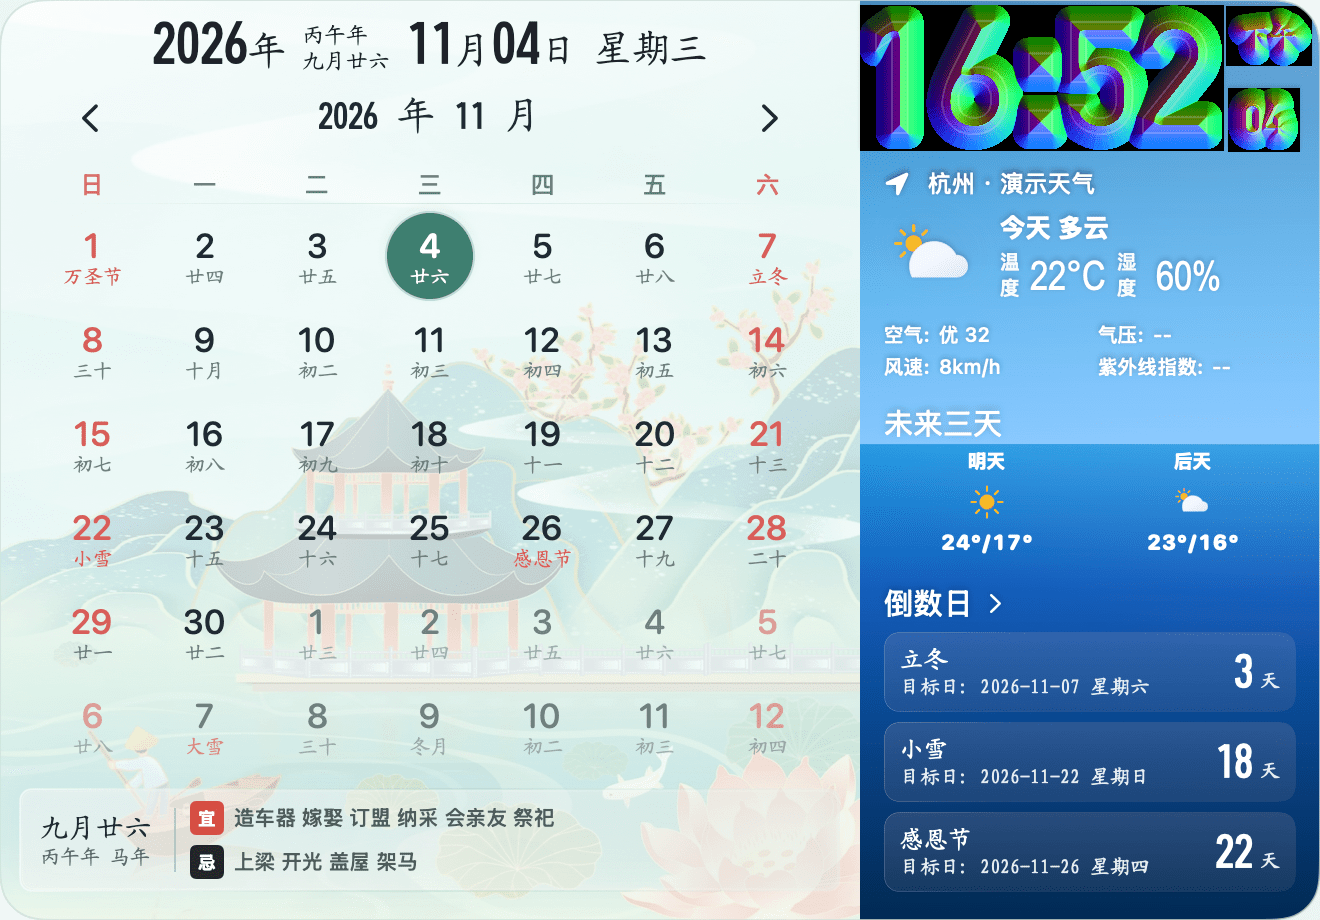
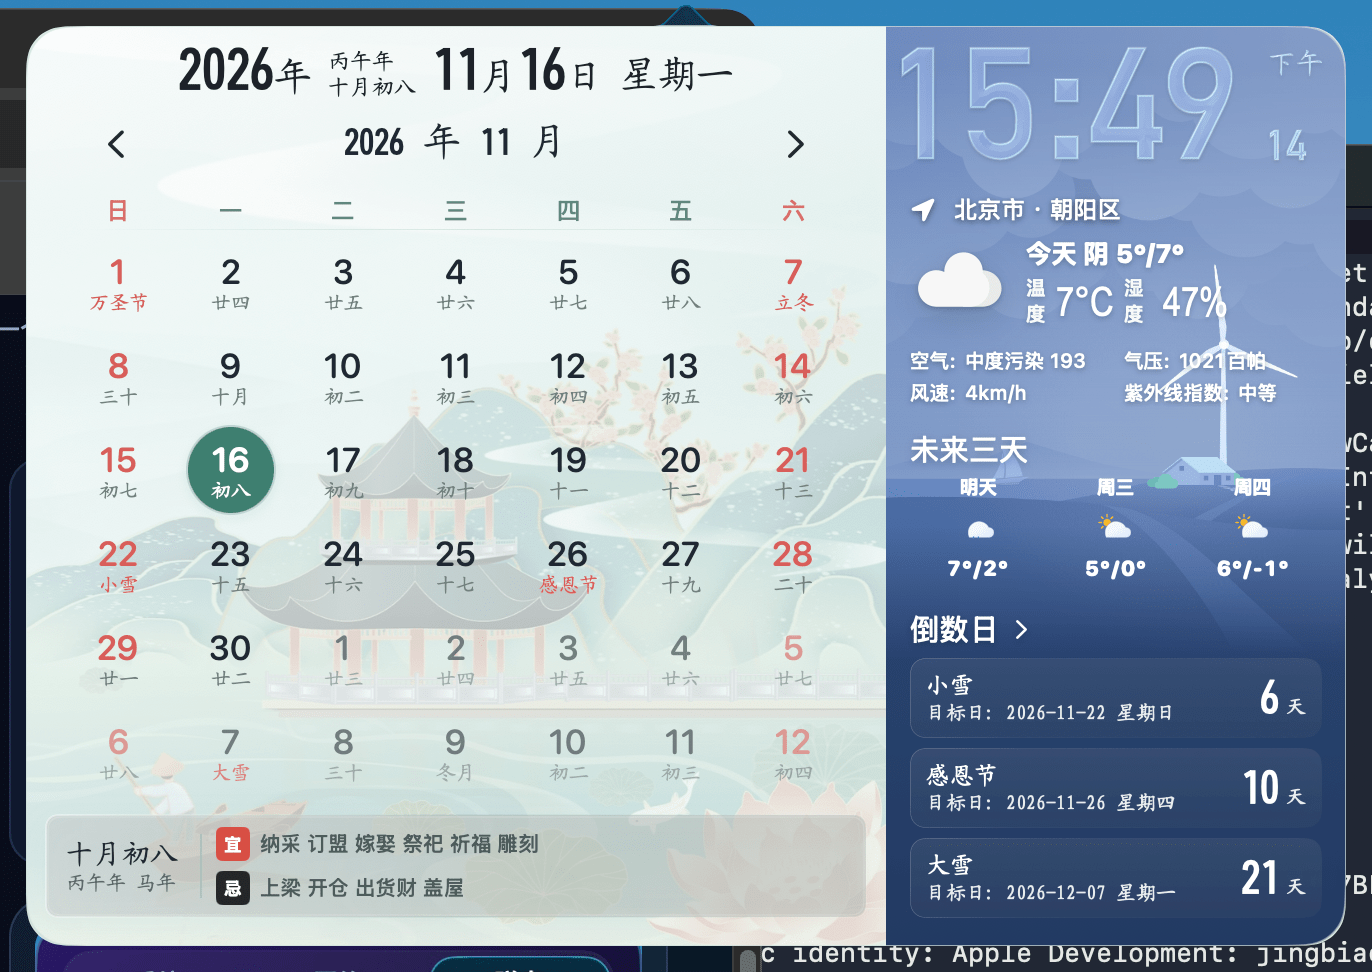
补充连接手机、系统监控、窗口晾衣架和 Agent 额度介绍
网站增加新功能区块与图集，并写入功能说明。系统监控网络截图不展示局域网地址。同时更新山水蓝日历图片。

diff --git a/index.html b/index.html
@@ -4,7 +4,7 @@
     <meta charset="utf-8" />
     <meta name="viewport" content="width=device-width, initial-scale=1" />
     <meta name="theme-color" content="#0b1020" />
-    <meta name="description" content="小咕 Oriel：日历、生活提醒、多平台热搜、可自定义的 Finder 右键工作流，以及陪你工作、联动 AI 任务状态的桌面机器人。" />
+    <meta name="description" content="小咕 Oriel：日历、生活提醒、多平台热搜、Finder 右键工作流、桌面机器人，以及连接手机、系统监控、窗口晾衣架和 Agent 额度。" />
     <title>小咕 Oriel · 把一天放在桌角</title>
     <link rel="stylesheet" href="styles.css" />
   </head>
@@ -23,6 +23,7 @@
         <a href="#finder">强大右键</a>
         <a href="#pdf">PDF</a>
         <a href="#robot">桌面机器人</a>
+        <a href="#new">新功能</a>
         <a href="#gallery">界面</a>
         <a class="nav-pill" href="https://github.com/LiJingBiao/xiaogu" target="_blank" rel="noreferrer">GitHub ↗</a>
       </nav>
@@ -215,11 +216,52 @@
         </div>
       </section>
 
+      <section class="new-section container" id="new" aria-labelledby="new-title">
+        <div class="section-heading reveal">
+          <div><span class="section-kicker">NEW / 新加入的能力</span><h2 id="new-title">菜单栏上，<br /><em>又多了几件顺手的事。</em></h2></div>
+          <p>手机连过来，窗口收成一排，占用抬眼可见。Agent 的额度也不用再一个个打开去翻。</p>
+        </div>
+        <div class="new-capabilities">
+          <article class="capability-card reveal"><span class="capability-index">01 / 连接手机</span><h3>电脑和手机，放在同一块面板里</h3><p>局域网连上之后，能看到电量、蓝牙和通知状态。文字、文件和图片可以从这里送过去，也可以把文件拖进面板。</p></article>
+          <article class="capability-card reveal"><span class="capability-index">02 / 系统监控</span><h3>CPU、内存、磁盘和网速，停在菜单栏</h3><p>点开以后分成系统、网络和磁盘。网络页列出正在传输的应用，也可以做一次短测速。</p></article>
+          <article class="capability-card reveal"><span class="capability-index">03 / 额度与窗口</span><h3>额度放在一处，窗口晾在顶边</h3><p>授权后查看 Codex、Claude Code、Grok 和 Cursor 的额度与重置时间。窗口晾衣架把打开的窗口收成一排，可以翻页和截图。</p></article>
+        </div>
+        <div class="new-shots">
+          <figure class="story-figure reveal">
+            <a class="screenshot-link" href="截图/压缩后图片/系统监控-系统.jpg" data-screenshot="截图/压缩后图片/系统监控-系统.jpg" aria-label="放大查看系统监控的系统页"><img src="截图/压缩后图片/系统监控-系统.jpg" alt="系统监控的系统页，显示 CPU、GPU、内存压力和已运行时间" width="620" height="554" loading="lazy" /><span class="image-hint">点击放大 ↗</span></a>
+            <figcaption>系统 · CPU、内存和已运行时间<span>实际界面 · 用户提供截图</span></figcaption>
+          </figure>
+          <figure class="story-figure reveal">
+            <a class="screenshot-link" href="截图/压缩后图片/系统监控-网络.jpg" data-screenshot="截图/压缩后图片/系统监控-网络.jpg" aria-label="放大查看系统监控的网络页"><img src="截图/压缩后图片/系统监控-网络.jpg" alt="系统监控的网络页，显示上下行曲线、正在使用网络的应用和测速入口" width="620" height="1106" loading="lazy" /><span class="image-hint">点击放大 ↗</span></a>
+            <figcaption>网络 · 上下行和正在传输的应用<span>实际界面 · 局域网地址未展示</span></figcaption>
+          </figure>
+          <figure class="story-figure reveal">
+            <a class="screenshot-link" href="截图/压缩后图片/系统监控-磁盘.jpg" data-screenshot="截图/压缩后图片/系统监控-磁盘.jpg" aria-label="放大查看系统监控的磁盘页"><img src="截图/压缩后图片/系统监控-磁盘.jpg" alt="系统监控的磁盘页，显示所选卷的可用空间和整机读写曲线" width="620" height="680" loading="lazy" /><span class="image-hint">点击放大 ↗</span></a>
+            <figcaption>磁盘 · 可用空间和整机读写<span>实际界面 · 用户提供截图</span></figcaption>
+          </figure>
+        </div>
+        <div class="new-pair">
+          <figure class="story-figure reveal">
+            <a class="screenshot-link" href="截图/压缩后图片/连接手机.jpg" data-screenshot="截图/压缩后图片/连接手机.jpg" aria-label="放大查看连接手机面板"><img src="截图/压缩后图片/连接手机.jpg" alt="连接手机面板，显示局域网已连接、电量、通知状态，以及文字、文件和图片发送入口" width="772" height="892" loading="lazy" /><span class="image-hint">点击放大 ↗</span></a>
+            <figcaption>连接手机 · 状态和发送放在一起<span>实际界面 · 用户提供截图</span></figcaption>
+          </figure>
+          <figure class="story-figure reveal">
+            <a class="screenshot-link" href="截图/压缩后图片/Agent额度.jpg" data-screenshot="截图/压缩后图片/Agent额度.jpg" aria-label="放大查看 Agent 额度面板"><img src="截图/压缩后图片/Agent额度.jpg" alt="Agent 额度面板，列出 Codex、Claude Code、Grok 和 Cursor" width="656" height="894" loading="lazy" /><span class="image-hint">点击放大 ↗</span></a>
+            <figcaption>Agent 额度 · 授权后看剩余和重置时间<span>实际界面 · 数字为截图当时的用量</span></figcaption>
+          </figure>
+        </div>
+        <figure class="story-figure new-wide reveal">
+          <a class="screenshot-link" href="截图/压缩后图片/窗口晾衣架.jpg" data-screenshot="截图/压缩后图片/窗口晾衣架.jpg" aria-label="放大查看窗口晾衣架"><img src="截图/压缩后图片/窗口晾衣架.jpg" alt="窗口晾衣架挂在屏幕顶边，展示当前打开的窗口缩略图" width="3954" height="926" loading="lazy" /><span class="image-hint">点击放大 ↗</span></a>
+          <figcaption>窗口晾衣架 · 打开的窗口收成一排<span>实际桌面 · 这一屏是 14 个窗口里的第 1 页</span></figcaption>
+        </figure>
+      </section>
+
       <section class="showcase" id="gallery">
         <div class="container">
-          <div class="section-heading section-heading--gallery reveal"><div><span class="section-kicker">真实界面 / SCREENSHOTS</span><h2>打开小咕，<br /><em>就是这些样子。</em></h2></div><p>73 张实际界面与组件采集图，加上 7 张用户补充图片，包含微博、百度和知乎热搜，以及 Markdown 导出 PDF。界面采集使用演示数据，组件为生产代码渲染；点击可放大查看。</p></div>
+          <div class="section-heading section-heading--gallery reveal"><div><span class="section-kicker">真实界面 / SCREENSHOTS</span><h2>打开小咕，<br /><em>就是这些样子。</em></h2></div><p>73 张实际界面与组件采集图，加上 13 张用户补充图片，包含微博、百度和知乎热搜、Markdown 导出 PDF，以及连接手机、系统监控、Agent 额度和窗口晾衣架。界面采集使用演示数据，组件为生产代码渲染；用户补充的界面为截图当时的状态。点击可放大查看。</p></div>
           <div class="gallery-tabs reveal" role="tablist" aria-label="截图分类">
             <button class="gallery-tab is-active" role="tab" aria-selected="true" type="button" data-filter="all">全部</button>
+            <button class="gallery-tab" role="tab" aria-selected="false" type="button" data-filter="new">新功能</button>
             <button class="gallery-tab" role="tab" aria-selected="false" type="button" data-filter="finder">Finder 右键</button>
             <button class="gallery-tab" role="tab" aria-selected="false" type="button" data-filter="calendar">日历与设置</button>
             <button class="gallery-tab" role="tab" aria-selected="false" type="button" data-filter="hotsearch">热搜资讯</button>

diff --git a/截图清单.js b/截图清单.js
@@ -646,5 +646,59 @@ window.orielScreenshots = [
     "image": "截图/压缩后图片/RAR解压.png",
     "width": 1120,
     "height": 1184
+  },
+  {
+    "title": "系统监控 · 系统",
+    "category": "new",
+    "image": "截图/压缩后图片/系统监控-系统.jpg",
+    "sourceLabel": "用户提供 · 实际界面",
+    "description": "系统监控的系统页，显示 CPU、GPU、内存压力、压缩内存、缓存、交换空间和已运行时间。数字是截图当时的状态。",
+    "width": 620,
+    "height": 554
+  },
+  {
+    "title": "系统监控 · 网络",
+    "category": "new",
+    "image": "截图/压缩后图片/系统监控-网络.jpg",
+    "sourceLabel": "用户提供 · 实际界面",
+    "description": "系统监控的网络页，显示上下行曲线、本次会话流量和正在使用网络的应用。测速会连接 Cloudflare。局域网地址未展示，数字是截图当时的状态。",
+    "width": 620,
+    "height": 1106
+  },
+  {
+    "title": "系统监控 · 磁盘",
+    "category": "new",
+    "image": "截图/压缩后图片/系统监控-磁盘.jpg",
+    "sourceLabel": "用户提供 · 实际界面",
+    "description": "系统监控的磁盘页，可切换卷，查看可用空间、可清除空间和整机读写。数字是截图当时的状态。",
+    "width": 620,
+    "height": 680
+  },
+  {
+    "title": "连接手机",
+    "category": "new",
+    "image": "截图/压缩后图片/连接手机.jpg",
+    "sourceLabel": "用户提供 · 实际界面",
+    "description": "已连接手机的面板。可查看局域网、蓝牙、电量和通知状态，并发送文字、文件或图片，也可以把文件拖进面板。",
+    "width": 772,
+    "height": 892
+  },
+  {
+    "title": "Agent 额度",
+    "category": "new",
+    "image": "截图/压缩后图片/Agent额度.jpg",
+    "sourceLabel": "用户提供 · 实际界面",
+    "description": "Agent 额度面板，列出 Codex、Claude Code、Grok 和 Cursor。授权后显示额度和重置时间。图中的百分比是截图当时的用量。",
+    "width": 656,
+    "height": 894
+  },
+  {
+    "title": "窗口晾衣架",
+    "category": "new",
+    "image": "截图/压缩后图片/窗口晾衣架.jpg",
+    "sourceLabel": "用户提供 · 实际桌面",
+    "description": "窗口晾衣架挂在屏幕顶边，把打开的窗口收成一排。这一屏是 14 个窗口里的第 1 页，可以刷新、截图或关闭。",
+    "width": 3954,
+    "height": 926
   }
 ];

diff --git a/styles.css b/styles.css
@@ -71,6 +71,14 @@ button { color: inherit; font: inherit; }
 .hotsearch-screenshots .story-figure { padding: 12px; }
 @media (max-width: 900px) { .hotsearch-capabilities { grid-template-columns: 1fr; } }
 @media (max-width: 640px) { .hotsearch-section { padding-bottom: 80px; } .hotsearch-screenshots { grid-template-columns: 1fr; gap: 24px; } .hotsearch-screenshots .story-figure { width: min(100%, 400px); margin-inline: auto; } .hotsearch-section .section-heading > p { font-size: 16px; } }
+.new-section { padding-bottom: 120px; scroll-margin-top: 30px; }
+.new-section .section-heading > p { max-width: 380px; font-size: 14px; }
+.new-capabilities, .new-shots { display: grid; grid-template-columns: repeat(3, minmax(0, 1fr)); gap: 16px; }
+.new-shots, .new-pair, .new-wide { margin-top: 16px; }
+.new-pair { display: grid; grid-template-columns: repeat(2, minmax(0, 1fr)); gap: 16px; }
+.new-shots .story-figure, .new-pair .story-figure, .new-wide { padding: 12px; }
+@media (max-width: 900px) { .new-capabilities, .new-shots, .new-pair { grid-template-columns: 1fr; } }
+@media (max-width: 640px) { .new-section { padding-bottom: 80px; } .new-section .section-heading > p { font-size: 16px; } .new-shots .story-figure, .new-pair .story-figure { width: min(100%, 420px); margin-inline: auto; } }
 .spotlight .section-heading > p, .robot-section .section-heading > p { max-width: 350px; font-size: 14px; }
 .finder-story { display: grid; grid-template-columns: minmax(230px, .72fr) minmax(0, 1.65fr); align-items: start; gap: 40px; }
 .story-figure { margin: 0; padding: 16px; border: 1px solid var(--line); border-radius: 20px; background: linear-gradient(145deg, rgba(112,214,255,.07), rgba(167,139,250,.05)); }

diff --git a/新增功能清单.md b/新增功能清单.md
@@ -1,0 +1,91 @@
+# 新增功能说明
+
+小咕新加入的能力，以及原有功能里新能做的事。
+
+## 新功能
+
+### 连接手机
+
+Mac 菜单栏有设备入口，可以同时管理多台手机。每台手机单独配对、单独连接。
+
+安卓可以扫码、走局域网或蓝牙，也可用六位码配对。能同步剪贴板，传送文件和文件夹，查看电量，转发通知和短信，并在重新连上后补上离线期间的通知。一台手机可以记下多台电脑，同一时间只连接其中一台。界面有亮色暖纸和暗色夜色，默认跟随系统。
+
+iPhone 通过蓝牙连接，界面与安卓一致，也可以记下多台 Mac。不提供通知共享、短信和六位码。
+
+系统分享里，安卓有「小咕」和「小咕剪贴板」，iPhone 有分享扩展，文字和文件可以发到当前电脑。手机收发文件不设大小上限。
+
+传输有进度。收件记录在重启后还在。Mac 收到图片或文字时，会弹出可以复制的预览；已经自动写入剪贴板的内容不再另开窗口。手机和电脑之间也可以用 LocalSend 传文件，普通接收仍然保留。
+
+剪贴板可以按发送方向单独开关。离开电脑时是否锁屏，按每台设备单独设置。局域网和蓝牙可以同时开着，面板上分别显示两条通道。
+
+### 系统监控
+
+菜单栏显示 CPU、内存、磁盘和网速，点击打开面板。
+
+面板有三页：系统、网络、磁盘。系统页看占用和内存。磁盘页可以切换卷，也能推出可移动磁盘。网络页列出正在传输的应用，并可以做一次短测速。
+
+只在面板看得见的时候采样。可以换主题，菜单栏宽度是固定的。
+
+### Agent 额度
+
+菜单栏有单独的额度图标，默认不显示。隐藏之后，从小咕的右键菜单再打开。
+
+可以查看 Codex、Claude Code、Grok 和 Cursor 的额度与重置时间。左键打开一块浮窗，点外面或按 Esc 关闭。每个工具需要授权自己的真实用户目录。
+
+还没授权、没登录或读不到额度时，会写出对应的原因。用量是 0% 时，就显示 0%。
+
+### 网速测试
+
+快捷启动里可以测延迟、下载和上传。节点来自 Speedtest.net 和测速网附近的服务器，测完的结果不回传给对方。系统监控的网络页里也可以做一次短测速。
+
+### 截图晾衣架
+
+指针在屏幕顶边停一下，晾衣架才展开，用来收纳截下来的图。图片可以拖进文件夹或其他应用，清空放在右键菜单里。剪贴板里的图片可以固定到屏幕，也可以放到晾衣架上。它和窗口晾衣架分开开关，顶边要停多久才展开可以自己调。
+
+### 窗口晾衣架
+
+把当前打开的窗口收成一排，点一张就能操作对应窗口。右侧拉绳往下是下一页，按住 Option 是上一页，双击打开全部窗口的总览。
+
+### 截图取色
+
+截图时可以取颜色。指针旁边有一块放大镜，方便对准像素。
+
+### 生活提醒强提醒
+
+到点以后，用接近系统通知的样式弹出来，也可以收成一直留在桌面上的卡片。鼠标停上去会有反应。好几条叠在一起时，展开像一叠通知被拆开。
+
+### 终端状态
+
+在 Zsh 里装上接入之后，小咕能看到终端正在做什么。一条命令跑完，会用系统通知和胶囊提醒，胶囊大约停 8 秒。点一下提醒，可以回到原来的终端。最多同时看 12 个会话。正在交互的程序，以及已经接入的 AI 工具，不会为普通命令结束再发一次提醒。
+
+### 桌面机器人
+
+除了原来的样子，还可以换成球球、云宝或亮亮。几种外形用同一套状态，也会敲键盘。点下去要落在当前外形上，外形外面的空白可以点穿。可以缩小后停在菜单栏下面，位置会被记住，也不会挡住胶囊和强提醒。
+
+## 原有功能里新能做的事
+
+### 截图
+
+工具栏里显示哪些工具可以自己选。默认有固定到屏幕、文字识别、滚动截屏和文字。设置按类分开，可以指定默认保存位置。标注用过的颜色和线宽会被记住；画上去的标注可以再选中、拖动，并用控制点缩放。复制出去的是 PNG。
+
+菜单栏入口同时带有截屏和录屏。滚动截图跟丢时会提示，也可以退回上一段重新接上。多个屏幕一起截时，一块屏幕确定选区之后，其他屏幕不再继续框。
+
+### 剪贴板
+
+每一条左边都有缩略图。可以调系统预览，也可以导出成文件。内容如果是本机路径，可以直接在访达里打开。新内容用来胶囊提示。鼠标停在一条上面时，预览宽度跟着两边的空位变，高度跟着内容变。放进剪贴板的图片不再卡在 32 MiB。
+
+### 二维码
+
+可以生成，也可以从图片里识别。一张图里有多个二维码时，会一起标出来。系统画不出的条形码不再提供。
+
+### Finder 右键
+
+自定义动作可以只出现在文件上，只出现在文件夹上，或者两种都出现。这个选择会跟着导入和导出一起走。
+
+### 简历
+
+简历可以导出成 PDF。
+
+### 录屏
+
+菜单栏上的录屏图标，在展开、收起和鼠标停住时会动。

diff --git a/README.md b/README.md
@@ -15,10 +15,11 @@
 - **常用工具随手用**：快捷启动、剪贴板、格式化、图片、文本、截图与录屏等。
 - **桌面有点陪伴**：可互动、联动 AI 任务状态的机器人，还有昆虫、番茄钟和小游戏。
 - **换成喜欢的样子**：多种界面主题、桌面时钟与日历组件。
+- **菜单栏上的新工具**：连接手机，查看 CPU、内存、磁盘和网速，把窗口收成晾衣架，并查看 Codex、Claude Code、Grok 和 Cursor 的额度。
 
 ## 全部界面展示
 
-下面按功能展示全部 80 张截图。自动采集界面中的日期、天气、提醒和工具内容使用演示数据；用户提供的热搜截图仅代表采集时的榜单。机器人 32 种状态总览是一张状态图鉴。
+下面按功能展示全部 86 张截图。自动采集界面中的日期、天气、提醒和工具内容使用演示数据；用户提供的热搜截图仅代表采集时的榜单。机器人 32 种状态总览是一张状态图鉴。连接手机、系统监控、Agent 额度和窗口晾衣架为用户提供的实际界面，数字是截图当时的状态；系统监控网络页不展示局域网地址。
 
 ### 日历、天气与重要日子
 
@@ -135,6 +136,22 @@
 | RAR解压 |   |
 | --- | --- |
 | ![RAR解压](<截图/压缩后图片/RAR解压.png>) |   |
+
+### 连接手机、系统监控与窗口晾衣架
+
+菜单栏可以连上手机，查看 CPU、内存、磁盘和网速，把打开的窗口收在屏幕顶边，并在授权后查看 Codex、Claude Code、Grok 和 Cursor 的额度与重置时间。
+
+| 连接手机 | Agent 额度 |
+| --- | --- |
+| ![连接手机](<截图/压缩后图片/连接手机.jpg>) | ![Agent 额度](<截图/压缩后图片/Agent额度.jpg>) |
+
+| 系统监控 · 系统 | 系统监控 · 磁盘 |
+| --- | --- |
+| ![系统监控 · 系统](<截图/压缩后图片/系统监控-系统.jpg>) | ![系统监控 · 磁盘](<截图/压缩后图片/系统监控-磁盘.jpg>) |
+
+| 系统监控 · 网络 | 窗口晾衣架 |
+| --- | --- |
+| ![系统监控 · 网络](<截图/压缩后图片/系统监控-网络.jpg>) | ![窗口晾衣架](<截图/压缩后图片/窗口晾衣架.jpg>) |
 
 ### 截图与录屏
 

diff --git a/网站说明.md b/网站说明.md
@@ -11,10 +11,10 @@
 - `index.html`：页面内容与 GitHub 链接。
 - `styles.css`：样式及响应式布局。
 - `script.js`：分类切换、图片放大和导航交互。
-- `截图清单.js`：80 张展示图片的标题、分类、说明和尺寸。
-- `截图/压缩后图片/`：73 张压缩 PNG、3 张用户提供的热搜 PNG、4 张用户补充 JPEG 和 1 张 JPEG 图标，共 81 张图片。原始采集图片、测试附件和采集记录不进入此仓库。
+- `截图清单.js`：86 张展示图片的标题、分类、说明和尺寸。
+- `截图/压缩后图片/`：73 张压缩 PNG、3 张用户提供的热搜 PNG、10 张用户补充 JPEG 和 1 张 JPEG 图标，共 87 张图片。原始采集图片、测试附件和采集记录不进入此仓库。
 
-自动采集图片来自实际应用界面或生产组件渲染，日期、天气、提醒和工具内容使用演示数据；七张补充图片保留“用户提供”来源标签。新增微博、百度、知乎三张实际热搜截图，榜单仅代表截图采集时的内容，不作为实时资讯提供。机器人 32 种状态图片为状态图鉴。Markdown 导出 PDF 为用户提供的小咕原生窗口截图。
+自动采集图片来自实际应用界面或生产组件渲染，日期、天气、提醒和工具内容使用演示数据；用户补充图片保留“用户提供”来源标签。微博、百度、知乎三张实际热搜截图的榜单仅代表截图采集时的内容，不作为实时资讯提供。机器人 32 种状态图片为状态图鉴。Markdown 导出 PDF 为用户提供的小咕原生窗口截图。连接手机、系统监控、Agent 额度和窗口晾衣架六张图为用户提供的实际界面，数字是截图当时的状态。系统监控网络页中的局域网地址已去掉，不在网站上展示。
 
 更新图片时替换发布版本，并同步修改 `截图清单.js` 及页面中的路径、尺寸；页面与放大预览使用随站点发布的同一份图片。
 
